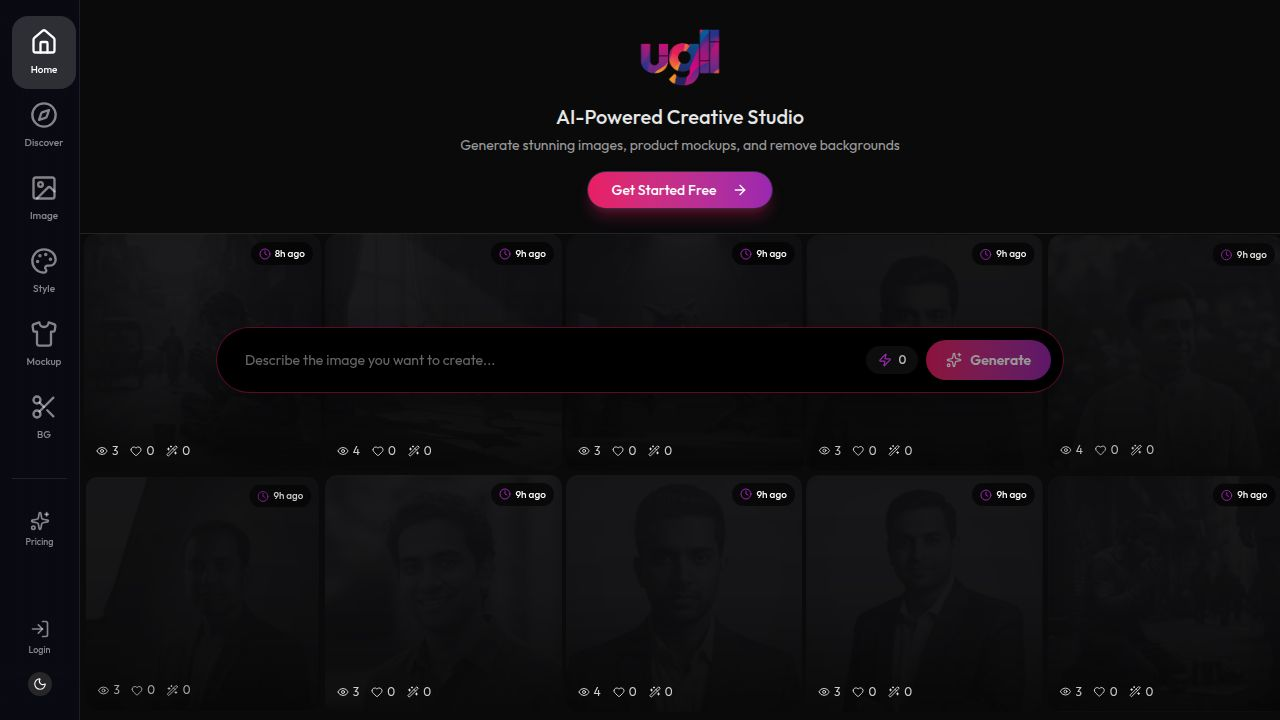
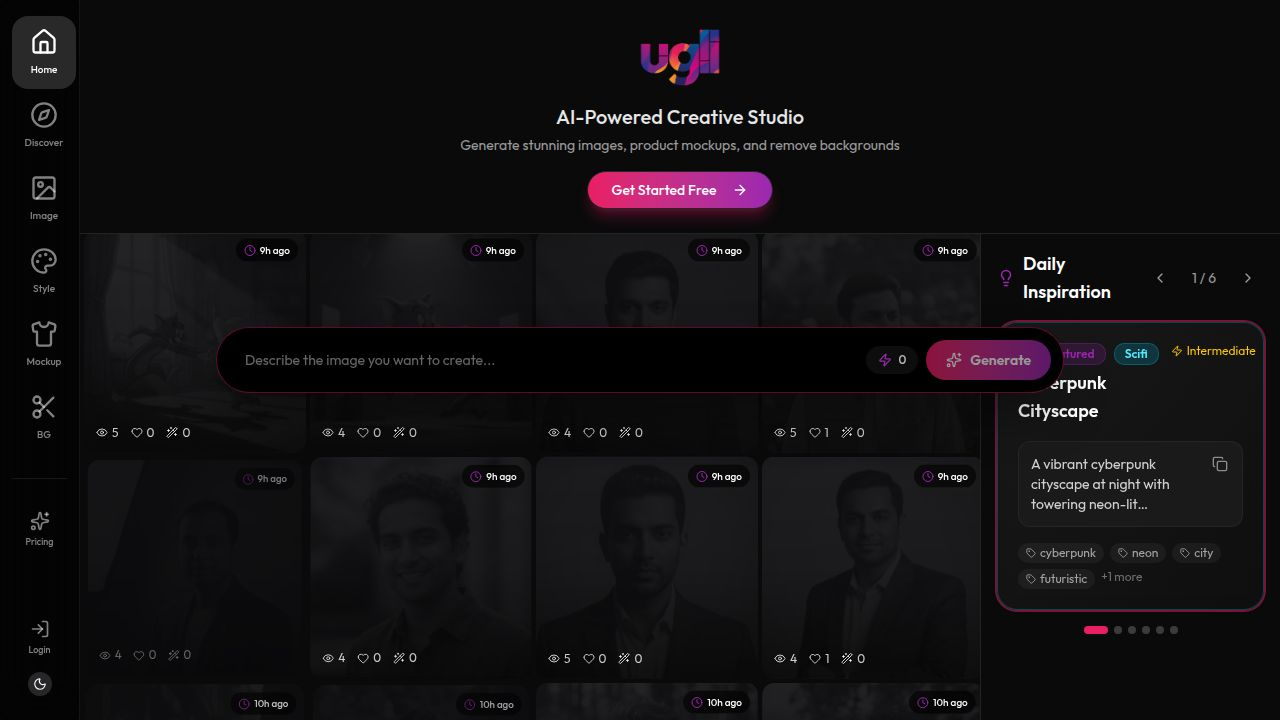
Add personalized prompt suggestions to the inspiration panel
Introduces a new "Personalized Prompts" feature, including a backend API endpoint, a frontend component, and integration into the daily inspiration feed for logged-in users.

Replit-Commit-Author: Agent
Replit-Commit-Session-Id: eec1a4dd-b341-4fa2-8341-387c0317c60f
Replit-Commit-Checkpoint-Type: intermediate_checkpoint
Replit-Commit-Event-Id: 01ab9d8e-5111-4d22-8386-f8721362f409
Replit-Commit-Screenshot-Url: https://storage.googleapis.com/screenshot-production-us-central1/038d2743-2a43-4c19-827e-eced61ebec4a/eec1a4dd-b341-4fa2-8341-387c0317c60f/7aEOn5R
Replit-Helium-Checkpoint-Created: true

diff --git a/client/src/components/daily-inspiration.tsx b/client/src/components/daily-inspiration.tsx
@@ -1,12 +1,13 @@
 import { useState } from "react";
 import { useQuery } from "@tanstack/react-query";
 import { motion, AnimatePresence } from "framer-motion";
-import { Sparkles, Copy, ChevronLeft, ChevronRight, Lightbulb, Tag, Zap } from "lucide-react";
+import { Sparkles, Copy, ChevronLeft, ChevronRight, Lightbulb, Tag, Zap, User, Wand2 } from "lucide-react";
 import { Button } from "@/components/ui/button";
 import { Badge } from "@/components/ui/badge";
 import { cn } from "@/lib/utils";
-import { inspirationsApi, type DailyInspiration } from "@/lib/api";
+import { inspirationsApi, promptsApi, type DailyInspiration, type PromptRecommendation } from "@/lib/api";
 import { useToast } from "@/hooks/use-toast";
+import { useAuth } from "@/hooks/use-auth";
 
 interface DailyInspirationProps {
   onTryPrompt?: (prompt: string) => void;
@@ -318,6 +319,149 @@ export function InspirationGrid({ onTryPrompt, limit = 6 }: DailyInspirationProp
           <InspirationCard
             key={inspiration.id}
             inspiration={inspiration}
+            onTryPrompt={onTryPrompt}
+          />
+        ))}
+      </div>
+    </div>
+  );
+}
+
+function PersonalizedPromptCard({ 
+  recommendation, 
+  onTryPrompt 
+}: { 
+  recommendation: PromptRecommendation; 
+  onTryPrompt?: (prompt: string) => void;
+}) {
+  const { toast } = useToast();
+
+  const handleCopyPrompt = () => {
+    navigator.clipboard.writeText(recommendation.prompt);
+    toast({
+      title: "Copied!",
+      description: "Prompt copied to clipboard",
+    });
+  };
+
+  const handleTryPrompt = () => {
+    if (onTryPrompt) {
+      onTryPrompt(recommendation.prompt);
+    }
+  };
+
+  return (
+    <motion.div
+      initial={{ opacity: 0, y: 10 }}
+      animate={{ opacity: 1, y: 0 }}
+      className="relative rounded-xl overflow-hidden border border-[#E91E63]/20 bg-gradient-to-br from-[#1a1a1a]/90 to-[#0f0f0f]/90 p-4"
+      data-testid={`personalized-prompt-${recommendation.id}`}
+    >
+      <div className="space-y-3">
+        <div className="flex items-start justify-between gap-2">
+          <Badge variant="outline" className="bg-[#E91E63]/20 text-[#E91E63] border-[#E91E63]/30 text-xs">
+            <User className="w-3 h-3 mr-1" />
+            For You
+          </Badge>
+          <Badge variant="outline" className="bg-white/5 text-white/60 border-white/10 text-xs">
+            {recommendation.category}
+          </Badge>
+        </div>
+        
+        <div className="relative bg-[#1a1a1a] rounded-lg p-3 border border-white/5">
+          <p className="text-sm text-white/90 line-clamp-3 pr-8">
+            {recommendation.prompt}
+          </p>
+          <Button
+            variant="ghost"
+            size="icon"
+            className="absolute top-2 right-2 h-7 w-7 text-white/50 hover:text-white hover:bg-white/10"
+            onClick={handleCopyPrompt}
+            data-testid={`copy-personalized-prompt-${recommendation.id}`}
+          >
+            <Copy className="h-3.5 w-3.5" />
+          </Button>
+        </div>
+        
+        <p className="text-xs text-white/50 italic">
+          {recommendation.reason}
+        </p>
+        
+        <div className="flex flex-wrap gap-1.5">
+          {recommendation.tags.slice(0, 3).map((tag, index) => (
+            <span 
+              key={index}
+              className="inline-flex items-center gap-1 px-2 py-0.5 text-xs rounded-full bg-white/5 text-white/60"
+            >
+              <Tag className="w-2.5 h-2.5" />
+              {tag}
+            </span>
+          ))}
+        </div>
+
+        {onTryPrompt && (
+          <Button
+            onClick={handleTryPrompt}
+            size="sm"
+            className="w-full bg-[#E91E63] hover:bg-[#C2185B] text-white"
+            data-testid={`try-personalized-prompt-${recommendation.id}`}
+          >
+            <Wand2 className="w-4 h-4 mr-2" />
+            Try This
+          </Button>
+        )}
+      </div>
+    </motion.div>
+  );
+}
+
+export function PersonalizedPrompts({ onTryPrompt }: DailyInspirationProps) {
+  const { user } = useAuth();
+  
+  const { data, isLoading, error } = useQuery({
+    queryKey: ["/api/prompts/recommendations"],
+    queryFn: () => promptsApi.getRecommendations(),
+    staleTime: 5 * 60 * 1000,
+    enabled: !!user,
+  });
+
+  const recommendations = data?.recommendations || [];
+
+  if (!user) {
+    return null;
+  }
+
+  if (isLoading) {
+    return (
+      <div className="space-y-4">
+        <div className="flex items-center gap-2">
+          <User className="w-5 h-5 text-[#E91E63]" />
+          <h2 className="text-lg font-semibold text-white">For You</h2>
+        </div>
+        <div className="animate-pulse space-y-3">
+          {[1, 2].map((i) => (
+            <div key={i} className="h-32 bg-white/10 rounded-xl" />
+          ))}
+        </div>
+      </div>
+    );
+  }
+
+  if (error || recommendations.length === 0) {
+    return null;
+  }
+
+  return (
+    <div className="space-y-4" data-testid="personalized-prompts">
+      <div className="flex items-center gap-2">
+        <User className="w-5 h-5 text-[#E91E63]" />
+        <h2 className="text-lg font-semibold text-white">For You</h2>
+      </div>
+      <div className="space-y-3">
+        {recommendations.map((rec) => (
+          <PersonalizedPromptCard
+            key={rec.id}
+            recommendation={rec}
             onTryPrompt={onTryPrompt}
           />
         ))}

diff --git a/server/services/profileAnalyzer.ts b/server/services/profileAnalyzer.ts
@@ -229,3 +229,91 @@ export async function getOrCreateUserProfile(userId: string): Promise<UserPrefer
   
   return updateUserProfileFromActivity(userId);
 }
+
+interface PromptRecommendation {
+  id: string;
+  prompt: string;
+  reason: string;
+  category: string;
+  tags: string[];
+}
+
+const PROMPT_TEMPLATES: Record<string, { template: string; category: string; tags: string[] }[]> = {
+  portrait: [
+    { template: "Professional headshot of a {subject}, {style} style, {mood} lighting, studio background", category: "Portrait", tags: ["professional", "headshot"] },
+    { template: "{mood} portrait photography, {style} aesthetic, natural lighting, bokeh background", category: "Portrait", tags: ["artistic", "bokeh"] },
+    { template: "Close-up portrait with {mood} expression, {style} color grading, cinematic depth", category: "Portrait", tags: ["cinematic", "close-up"] },
+  ],
+  landscape: [
+    { template: "{mood} mountain landscape at golden hour, {style} photography, dramatic clouds", category: "Landscape", tags: ["nature", "mountains"] },
+    { template: "Serene {subject} scene, {style} style, soft morning light, mist rising", category: "Landscape", tags: ["peaceful", "morning"] },
+    { template: "Epic {subject} vista, {style} rendering, {mood} atmosphere, wide angle view", category: "Landscape", tags: ["epic", "wide-angle"] },
+  ],
+  product: [
+    { template: "Professional product shot of a {subject}, {style} lighting, clean white background", category: "Product", tags: ["commercial", "clean"] },
+    { template: "Lifestyle product photography, {subject} in natural setting, {mood} mood", category: "Product", tags: ["lifestyle", "natural"] },
+    { template: "Minimalist product display, {subject}, {style} aesthetic, soft shadows", category: "Product", tags: ["minimalist", "modern"] },
+  ],
+  abstract: [
+    { template: "{mood} abstract composition, {style} art style, flowing forms and colors", category: "Abstract", tags: ["artistic", "flowing"] },
+    { template: "Geometric abstract patterns, {style} design, {mood} color palette", category: "Abstract", tags: ["geometric", "pattern"] },
+    { template: "Surreal {mood} dreamscape, {style} rendering, ethereal lighting", category: "Abstract", tags: ["surreal", "dream"] },
+  ],
+  default: [
+    { template: "{mood} scene with beautiful {style} aesthetics, professional quality", category: "General", tags: ["professional", "quality"] },
+    { template: "Artistic {style} composition, {mood} atmosphere, stunning visuals", category: "General", tags: ["artistic", "stunning"] },
+    { template: "Creative {subject} concept, {style} style, {mood} lighting", category: "General", tags: ["creative", "concept"] },
+  ],
+};
+
+export function generatePersonalizedPrompts(analysis: AnalysisResult): PromptRecommendation[] {
+  const recommendations: PromptRecommendation[] = [];
+  
+  const topStyle = analysis.preferredStyles[0] || 'artistic';
+  const topSubject = analysis.preferredSubjects[0] || 'scene';
+  const topMood = analysis.preferredMoods[0] || 'beautiful';
+  
+  const subjectCategory = analysis.preferredSubjects[0] || 'default';
+  const templates = PROMPT_TEMPLATES[subjectCategory] || PROMPT_TEMPLATES.default;
+  
+  for (let i = 0; i < Math.min(templates.length, 3); i++) {
+    const template = templates[i];
+    const prompt = template.template
+      .replace('{style}', topStyle)
+      .replace('{subject}', topSubject)
+      .replace('{mood}', topMood);
+    
+    recommendations.push({
+      id: `rec-${i + 1}`,
+      prompt,
+      reason: `Based on your preference for ${topStyle} style and ${topSubject} subjects`,
+      category: template.category,
+      tags: [...template.tags, topStyle, topMood],
+    });
+  }
+  
+  if (analysis.recentContext.recentPrompts.length > 0) {
+    const recentPrompt = analysis.recentContext.recentPrompts[0];
+    if (recentPrompt && recentPrompt.length > 10) {
+      recommendations.push({
+        id: 'rec-continue',
+        prompt: `${recentPrompt}, with a new perspective`,
+        reason: 'Continue exploring your recent creative direction',
+        category: 'Continuation',
+        tags: ['recent', 'variation'],
+      });
+    }
+  }
+  
+  if (analysis.profileCompleteness < 50) {
+    recommendations.push({
+      id: 'rec-explore',
+      prompt: 'Beautiful cinematic landscape at sunset, vibrant colors, professional photography',
+      reason: 'Try this popular style to help us learn your preferences',
+      category: 'Explore',
+      tags: ['popular', 'recommended'],
+    });
+  }
+  
+  return recommendations.slice(0, 5);
+}

diff --git a/client/src/pages/public-home.tsx b/client/src/pages/public-home.tsx
@@ -17,6 +17,7 @@ import { useLoginPopup } from "@/components/login-popup";
 import { useQuery, useMutation, useQueryClient } from "@tanstack/react-query";
 import { useAuth } from "@/hooks/use-auth";
 import { apiRequest } from "@/lib/queryClient";
+import { DailyInspirationFeed, PersonalizedPrompts } from "@/components/daily-inspiration";
 import ugliLogo from "@assets/Ugli_Logo_(1)_1766145410500.png";
 
 interface InspirationItem {
@@ -620,22 +621,33 @@ export default function PublicHome() {
       
       <main className="flex-1 flex flex-col h-full overflow-hidden bg-[#0A0A0B]">
         <BrandingHeader isLoggedIn={!!user} />
-        <div className="flex-1 relative overflow-hidden">
-          {isGalleryReady ? (
-            <JustifiedGallery 
-              items={galleryImages} 
-              generatedImage={generatedImage} 
-              onLike={handleLike}
-              isLoggedIn={!!user}
-            />
-          ) : (
-            <div className="w-full h-full flex items-center justify-center">
-              <div className="flex flex-col items-center gap-4">
-                <div className="w-12 h-12 border-4 border-[#E91E63] border-t-transparent rounded-full animate-spin" />
-                <p className="text-gray-400 text-sm">Loading gallery...</p>
+        <div className="flex-1 flex flex-col lg:flex-row overflow-hidden">
+          {/* Gallery Section - 3/4 width on lg+ */}
+          <div className="flex-1 lg:basis-3/4 relative overflow-hidden">
+            {isGalleryReady ? (
+              <JustifiedGallery 
+                items={galleryImages} 
+                generatedImage={generatedImage} 
+                onLike={handleLike}
+                isLoggedIn={!!user}
+              />
+            ) : (
+              <div className="w-full h-full flex items-center justify-center">
+                <div className="flex flex-col items-center gap-4">
+                  <div className="w-12 h-12 border-4 border-[#E91E63] border-t-transparent rounded-full animate-spin" />
+                  <p className="text-gray-400 text-sm">Loading gallery...</p>
+                </div>
               </div>
+            )}
+          </div>
+          
+          {/* Inspiration Section - 1/4 width on lg+, hidden on mobile */}
+          <div className="hidden lg:flex lg:basis-1/4 border-l border-white/10 overflow-y-auto bg-[#0A0A0B]">
+            <div className="w-full p-4 space-y-6">
+              {user && <PersonalizedPrompts />}
+              <DailyInspirationFeed />
             </div>
-          )}
+          </div>
         </div>
       </main>
 

diff --git a/server/routes.ts b/server/routes.ts
@@ -1235,6 +1235,21 @@ export async function registerRoutes(
     }
   });
 
+  app.get("/api/prompts/recommendations", requireAuth, async (req: any, res) => {
+    try {
+      const userId = req.user.id;
+      const { analyzeUserProfile, generatePersonalizedPrompts } = await import("./services/profileAnalyzer");
+      
+      const analysis = await analyzeUserProfile(userId);
+      const recommendations = await generatePersonalizedPrompts(analysis);
+      
+      res.json({ recommendations, analysis: { profileCompleteness: analysis.profileCompleteness } });
+    } catch (error) {
+      console.error("Personalized prompts error:", error);
+      res.status(500).json({ message: "Server error" });
+    }
+  });
+
   // ============== STYLE TRANSFER ROUTES ==============
 
   app.get("/api/style-transfer/presets", async (_req, res) => {

diff --git a/client/src/lib/api.ts b/client/src/lib/api.ts
@@ -808,6 +808,19 @@ export const inspirationsApi = {
     fetchApi<{ inspirations: DailyInspiration[] }>(`/inspirations/featured${limit ? `?limit=${limit}` : ""}`),
 };
 
+export interface PromptRecommendation {
+  id: string;
+  prompt: string;
+  reason: string;
+  category: string;
+  tags: string[];
+}
+
+export const promptsApi = {
+  getRecommendations: () =>
+    fetchApi<{ recommendations: PromptRecommendation[]; analysis: { profileCompleteness: number } }>("/prompts/recommendations"),
+};
+
 // Style Transfer API
 export interface StylePreset {
   id: string;
